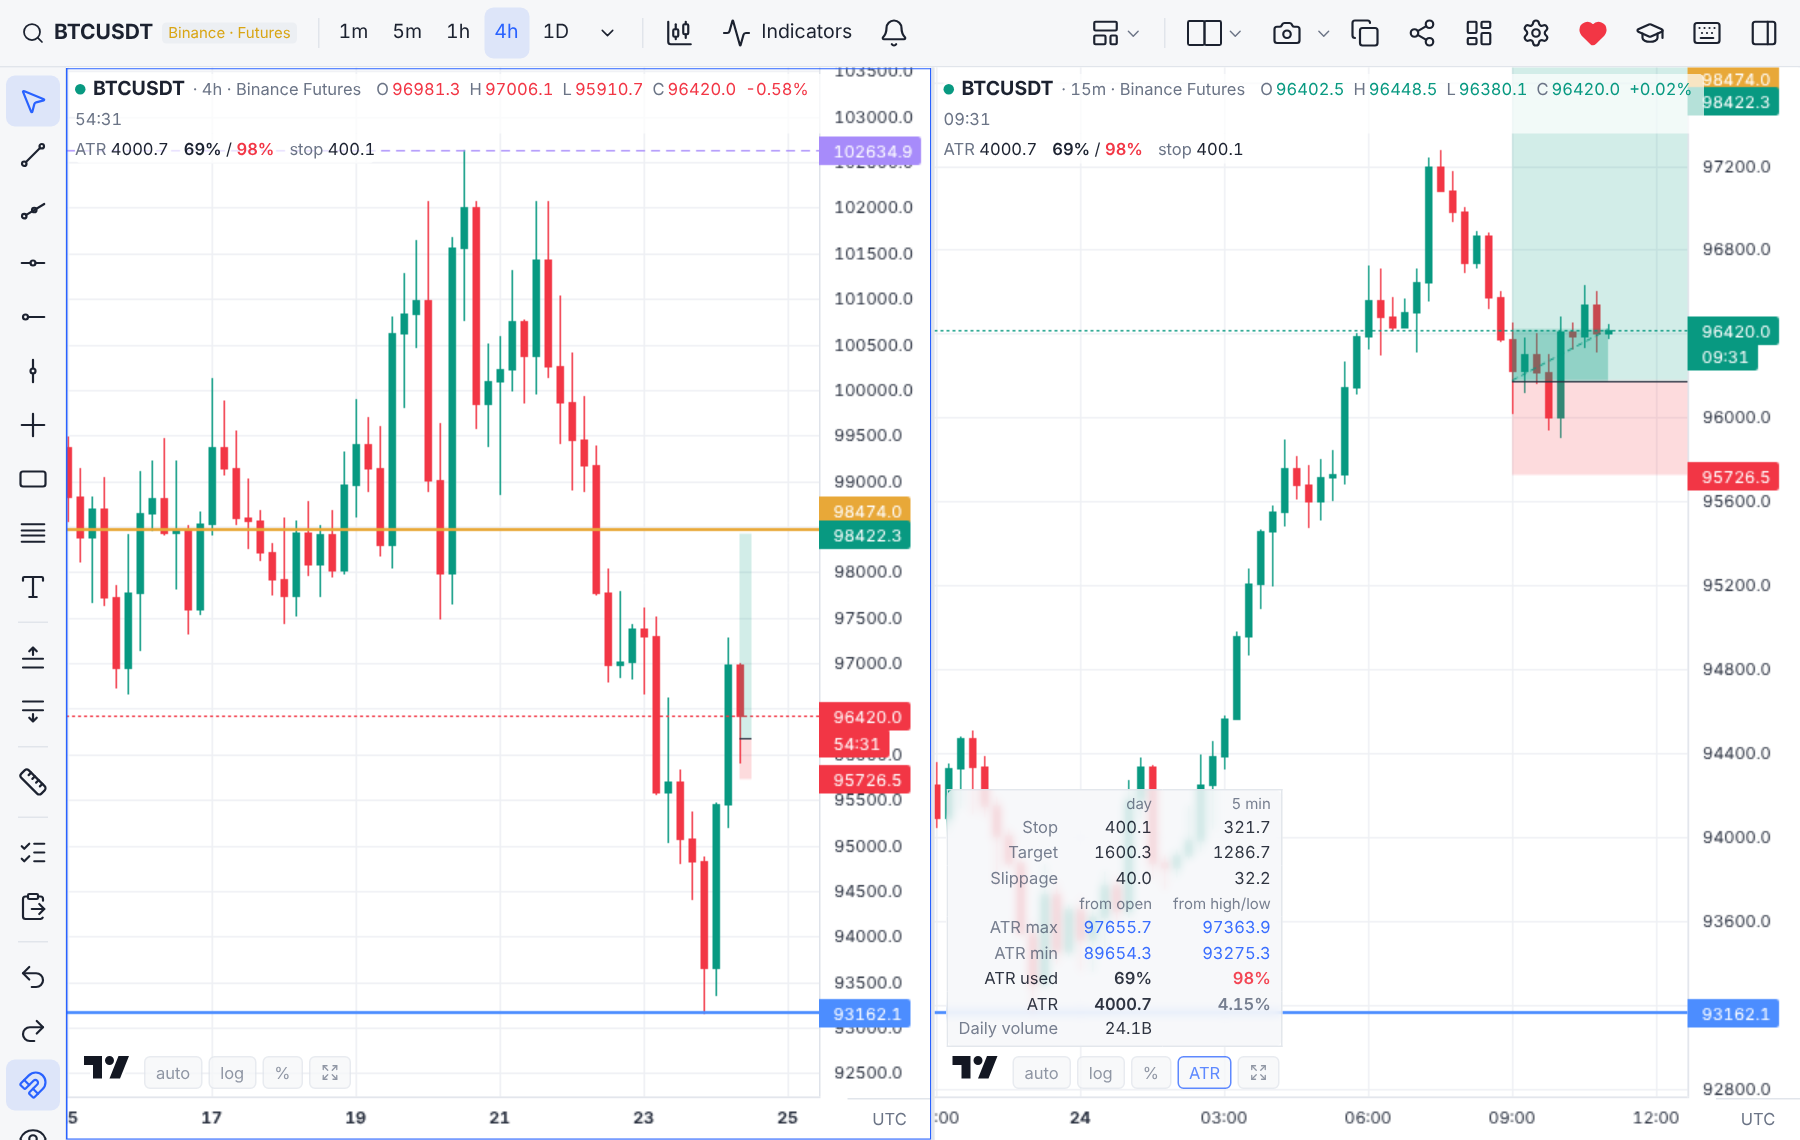
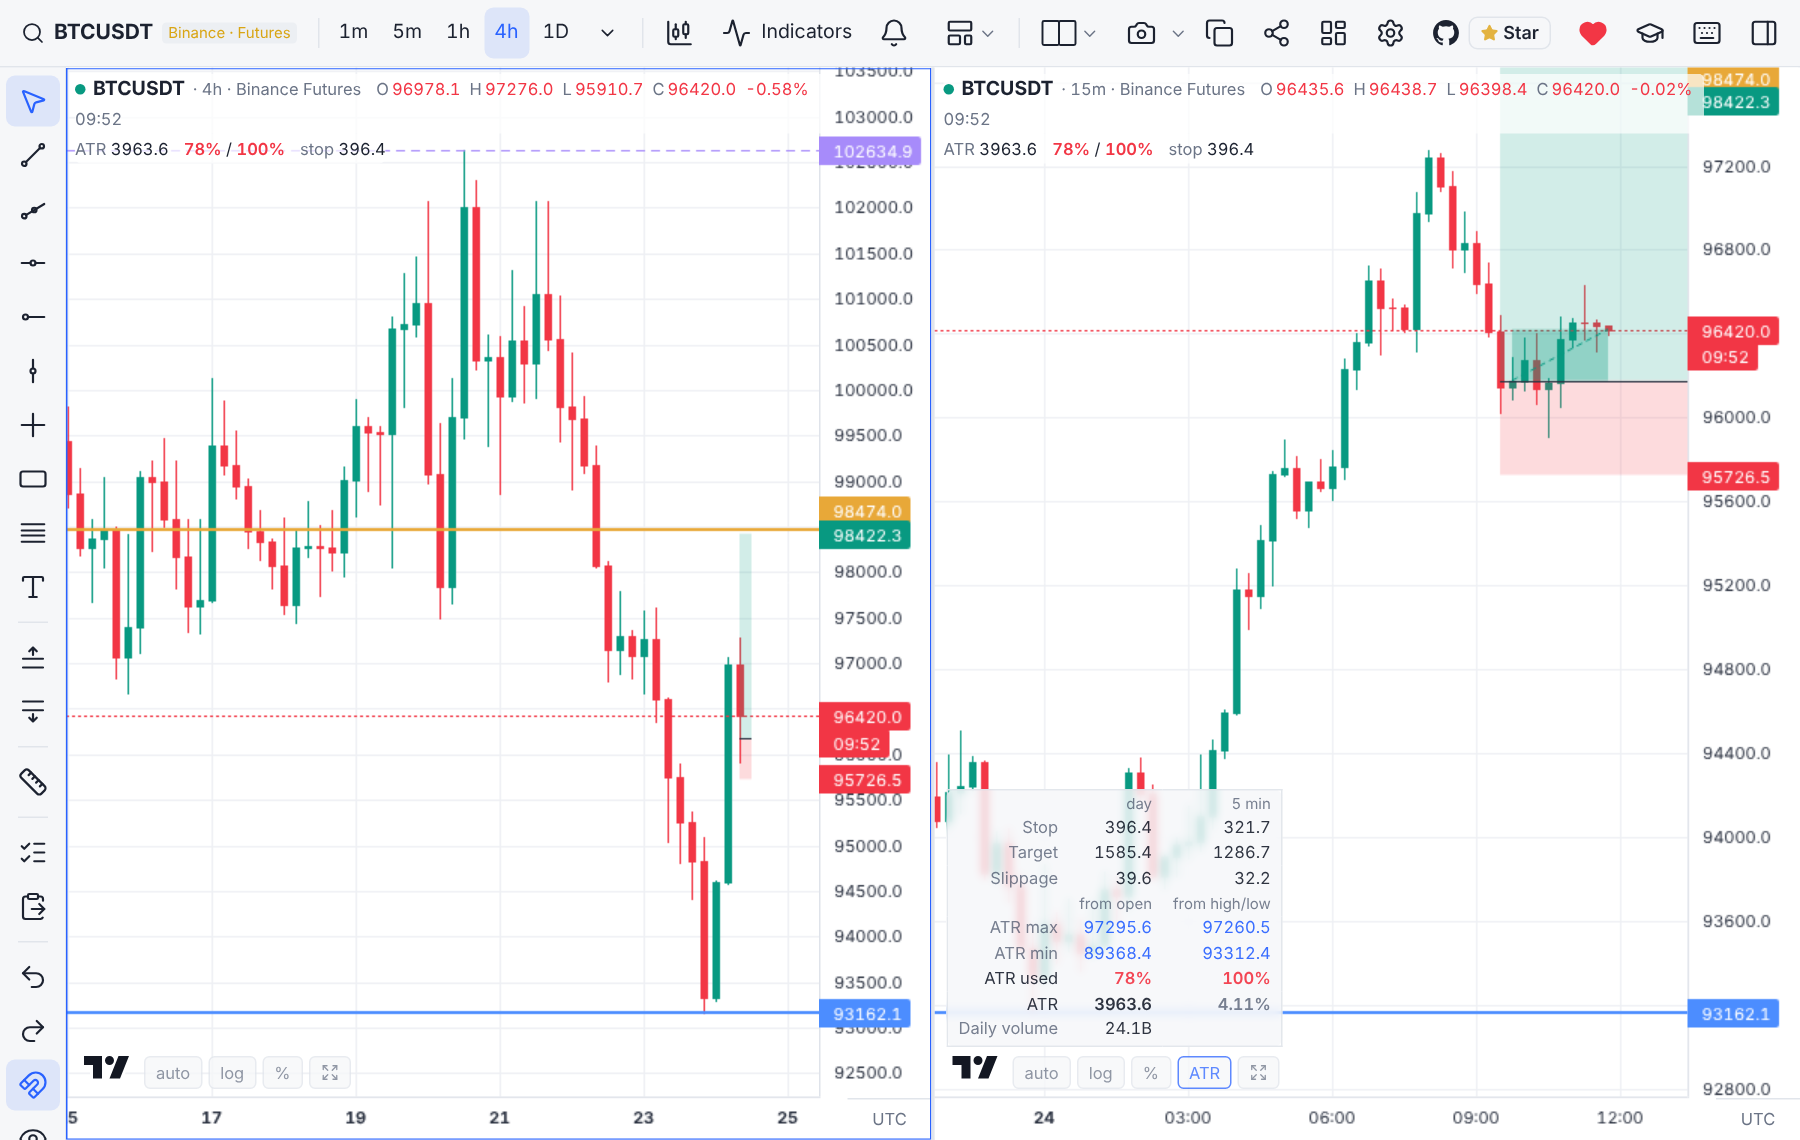
README на русском в том же оформлении, кнопка Sponsor, «лёгкий» в цифрах
- README.ru.md: шапка, бейджи, «Почему tvx», скриншоты русского интерфейса
  (docs/screenshots/ru), раздел «Поддержать проект»; подробное описание — ниже.
- Оба README: вес приложения (~210 КБ при первом открытии, ~270 КБ всё),
  ссылка на окно доната и просьба поставить звёздочку; бейдж звёзд.
- .github/FUNDING.yml — кнопка «Sponsor» на странице репозитория.
- Английские скриншоты пересняты (кнопка GitHub на панели).

Claude-Session: https://claude.ai/code/session_01VRkEvv2LWq6DvpVnMTJzLN

diff --git a/README.ru.md b/README.ru.md
@@ -1,15 +1,90 @@
-# tvx — торговый терминал
+<div align="center">
 
-[English](README.md) · **Русский** · [Открыть приложение](https://gurmanalexander.github.io/trading-platform/)
+<img src="public/icon-192.png" width="88" alt="логотип tvx" />
 
-Лёгкий веб-терминал для графиков криптовалют: цены Binance и Bybit (спот и бессрочные фьючерсы)
-в реальном времени, несколько синхронных окон, индикаторы, рисование, отбор инструментов, оповещения.
-Работает в браузере на компьютере, планшете и телефоне, ставится на домашний экран как приложение (PWA).
+# tvx — бесплатный торговый терминал для Binance и Bybit
 
-Серверной части нет: браузер сам обращается к публичным API бирж. Ключи API не нужны,
-настройки, рисунки и оповещения хранятся в браузере (`localStorage`).
+**Быстрые графики в браузере, как в TradingView: несколько окон, рисование, позиции лонг/шорт,
+ATR, отбор, списки и оповещения — без регистрации, без рекламы и без ключей API.**
 
-## Возможности
+[![Открыть приложение](https://img.shields.io/badge/%D0%9E%D1%82%D0%BA%D1%80%D1%8B%D1%82%D1%8C%20%D0%BF%D1%80%D0%B8%D0%BB%D0%BE%D0%B6%D0%B5%D0%BD%D0%B8%D0%B5-%E2%86%92-2962ff?style=for-the-badge)](https://gurmanalexander.github.io/trading-platform/)
+
+[![Сборка](https://github.com/gurmanalexander/trading-platform/actions/workflows/pages.yml/badge.svg)](https://github.com/gurmanalexander/trading-platform/actions/workflows/pages.yml)
+![Vue 3](https://img.shields.io/badge/Vue-3-42b883?logo=vuedotjs&logoColor=white)
+![TypeScript](https://img.shields.io/badge/TypeScript-strict-3178c6?logo=typescript&logoColor=white)
+![PWA](https://img.shields.io/badge/PWA-installable-5a0fc8?logo=pwa&logoColor=white)
+![Без сервера](https://img.shields.io/badge/%D1%81%D0%B5%D1%80%D0%B2%D0%B5%D1%80-%D0%BD%D0%B5%20%D0%BD%D1%83%D0%B6%D0%B5%D0%BD-555)
+![Загрузка ~210 КБ](https://img.shields.io/badge/%D0%B7%D0%B0%D0%B3%D1%80%D1%83%D0%B7%D0%BA%D0%B0-~210%20%D0%9A%D0%91%20gzip-1fb28a)
+[![Звёзды](https://img.shields.io/github/stars/gurmanalexander/trading-platform?style=flat&logo=github)](https://github.com/gurmanalexander/trading-platform/stargazers)
+
+[English](README.md) · **Русский**
+
+<img src="docs/screenshots/ru/hero.png" alt="tvx: три синхронных окна BTCUSDT с уровнями, позицией лонг и списком наблюдения" width="100%" />
+
+</div>
+
+## Почему tvx
+
+- **Бесплатно и приватно.** Всё работает в браузере и обращается прямо к открытым API бирж.
+  Ни аккаунта, ни сервера, ни слежки: раскладки, рисунки и списки остаются на вашем устройстве.
+- **Лёгкий.** При первом открытии загружается около **210 КБ** — весь JavaScript и CSS в сжатом виде;
+  всё приложение со всеми окнами — около 270 КБ. Веб-терминалы больших платформ обычно скачивают несколько
+  мегабайт скриптов, прежде чем покажут первый график. Без UI-библиотек, трекеров и серверной части —
+  открывается мгновенно и не тормозит даже на старом телефоне.
+- **Для внутридневной торговли.** Уровень с дневного графика виден на пятиминутном, позиция показывает
+  ход сделки в R, таблица ATR — стоп, тейк и сколько дневного хода уже пройдено.
+- **Быстрый.** Графики на canvas ([Lightweight Charts](https://github.com/tradingview/lightweight-charts)),
+  одно WebSocket-соединение на биржу, до 8 синхронных окон на экране.
+- **Везде.** Компьютер, планшет и телефон; ставится на домашний экран как приложение (PWA).
+- **Два языка.** Русский и английский, переключаются в любой момент. При первом запуске — короткая настройка:
+  язык, тема, часовой пояс (по умолчанию — как на устройстве) и биржа.
+
+## Как это выглядит
+
+<table>
+<tr>
+<td width="50%"><img src="docs/screenshots/ru/position.png" alt="Позиция лонг с полем R/R и привязкой" /></td>
+<td width="50%"><img src="docs/screenshots/ru/screener.png" alt="Отбор и списки наблюдения" /></td>
+</tr>
+<tr>
+<td><b>Позиции лонг и шорт.</b> Вход, стоп и тейк тянутся мышью или вводятся числами и притягиваются магнитом к ценам свечей (с Shift — без магнита). Привязка R/R (по умолчанию 5 к 1): тянешь стоп — тейк следует. Ход сделки в R, объём по депозиту и риску.</td>
+<td><b>Отбор и списки.</b> Все монеты Binance и Bybit с оборотом, изменением за сутки и фильтрами. Цветные списки, отметки лонг/шорт, расстояние до ближайшего уровня в ATR.</td>
+</tr>
+<tr>
+<td><img src="docs/screenshots/ru/indicators.png" alt="Cumulative Delta Volume и открытый интерес" /></td>
+<td><img src="docs/screenshots/ru/light.png" alt="Светлая тема" /></td>
+</tr>
+<tr>
+<td><b>Индикаторы.</b> Объём, SMA/EMA/WMA, полосы Боллинджера, VWAP, RSI, MACD, стохастик, ATR, Cumulative Delta Volume и открытый интерес.</td>
+<td><b>Тёмная и светлая темы</b>, свои цвета, тонкие бары, часовые пояса, крупный шрифт шкал и легенды.</td>
+</tr>
+<tr>
+<td colspan="2"><img src="docs/screenshots/ru/mobile.png" alt="tvx на телефоне: график и список" /></td>
+</tr>
+<tr>
+<td colspan="2" align="center"><b>И на телефоне.</b> Ставится на домашний экран, монеты листаются смахиванием, телефон набок — график на весь экран.</td>
+</tr>
+</table>
+
+## Поддержать проект
+
+tvx бесплатный и без рекламы. Если он помогает вам в торговле — поддержите его развитие:
+[окно доната в приложении](https://gurmanalexander.github.io/trading-platform/#donate) (QR-коды, кнопки «Скопировать»)
+или переведите USDT напрямую:
+
+| Способ | Адрес |
+| --- | --- |
+| Binance Pay (без комиссии) | [izi4ka](https://app.binance.com/uni-qr/LxreT8Gt) |
+| USDT · TRC20 (Tron) | `TDiQ3qYR3nKasjs7v2Yvf4F9gtKCaApWMb` |
+| USDT · BEP20 (BNB Smart Chain) | `0xdb91a73ce273e760cfed4b7ae39d73d7502419b6` |
+| USDT · ERC20 (Ethereum) | `0xdb91a73ce273e760cfed4b7ae39d73d7502419b6` |
+
+Отправляйте только USDT и только в указанной сети — перевод в другой сети не дойдёт.
+
+**Не готовы донатить? [Поставьте звёздочку репозиторию](https://github.com/gurmanalexander/trading-platform) ⭐** —
+так tvx легче найти другим трейдерам. Сообщения об ошибках и идеи тоже очень помогают.
+
+## Все возможности подробно
 
 - **Язык и первый запуск**: интерфейс на русском и английском, переключается в настройках (шестерёнка
   на верхней панели, на телефоне — «Ещё»). При первом запуске короткая настройка: язык, тема, часовой пояс
@@ -154,6 +229,8 @@
   или полной заменой данных на принимающем устройстве.
 - **Обучение**: кнопка на верхней панели открывает видео-обзор терминала с оглавлением по частям и субтитрами
   (файлы лежат в `public/help`).
+- **GitHub**: кнопка со счётчиком звёзд на верхней панели (на телефоне — «Ещё» → «Звезда на GitHub») ведёт
+  в репозиторий — там можно поставить звёздочку.
 - **Поддержать проект**: сердечко на верхней панели (на телефоне — «Ещё» → «Поддержать проект») открывает
   окно доната: сначала выбирают способ (Binance Pay, USDT TRC20, BEP20 или ERC20), потом видят только его —
   адрес, кнопку «Скопировать» и предупреждение про сеть; QR-код — у выбранного способа (на телефоне — по кнопке).
@@ -299,6 +376,8 @@ server {
 
 ## Почему это быстро
 
+- При первом открытии загружается около 210 КБ (весь JavaScript и CSS, сжатый gzip), всё приложение — около 270 КБ:
+  редкие окна (настройки, синхронизация, обзор и т. п.) подгружаются, только когда их открывают; видео-обзор — тоже.
 - Графики — [Lightweight Charts](https://github.com/tradingview/lightweight-charts) (canvas), интерфейс — Vue 3
   без UI-библиотек.
 - Одно WebSocket-соединение на биржу и рынок; подписки считаются по ссылкам, неиспользуемые закрываются.

diff --git a/README.md b/README.md
@@ -14,6 +14,8 @@ ATR toolkit, screener, watchlists and alerts — no sign-up, no ads, no API keys
 ![TypeScript](https://img.shields.io/badge/TypeScript-strict-3178c6?logo=typescript&logoColor=white)
 ![PWA](https://img.shields.io/badge/PWA-installable-5a0fc8?logo=pwa&logoColor=white)
 ![No backend](https://img.shields.io/badge/backend-none-555)
+![First load ~210 KB](https://img.shields.io/badge/first%20load-~210%20KB%20gzip-1fb28a)
+[![Stars](https://img.shields.io/github/stars/gurmanalexander/trading-platform?style=flat&logo=github)](https://github.com/gurmanalexander/trading-platform/stargazers)
 
 **English** · [Русский](README.ru.md)
 
@@ -27,6 +29,9 @@ ATR toolkit, screener, watchlists and alerts — no sign-up, no ads, no API keys
   No account, no server, no tracking. Your layouts, drawings and lists stay on your device.
 - **Built for intraday traders.** Levels drawn on the daily chart show up on the 5-minute one,
   positions show live progress in R, the ATR table tells you stop, target and how much of the day's range is gone.
+- **Lightweight.** About **210 KB** on first load — all JavaScript and CSS, gzipped; the whole app with every
+  dialog is ~270 KB. Big web platforms usually download several megabytes of scripts before the first chart appears.
+  No UI kits, no trackers, no backend — it opens instantly and runs smoothly even on an old phone.
 - **Fast.** Canvas charts ([Lightweight Charts](https://github.com/tradingview/lightweight-charts)),
   one WebSocket per exchange, up to 8 synchronized charts on screen.
 - **Works everywhere.** Desktop, tablet and phone; install it to your home screen as an app (PWA).
@@ -41,7 +46,7 @@ ATR toolkit, screener, watchlists and alerts — no sign-up, no ads, no API keys
 <td width="50%"><img src="docs/screenshots/screener.png" alt="Screener and watchlists" /></td>
 </tr>
 <tr>
-<td><b>Long / short positions.</b> Drag entry, stop and target or type them in. Lock the R/R (5:1 by default) and the target follows your stop. Live result in R, position size from your deposit and risk.</td>
+<td><b>Long / short positions.</b> Drag entry, stop and target or type them in — they snap to candle prices with the magnet (hold Shift to place freely). Lock the R/R (5:1 by default) and the target follows your stop. Live result in R, position size from your deposit and risk.</td>
 <td><b>Screener & watchlists.</b> All Binance and Bybit symbols with turnover, 24h change and filters. Color-coded lists, long/short marks, distance to the nearest level in ATR.</td>
 </tr>
 <tr>
@@ -115,8 +120,9 @@ automatically on every push to `main` (`.github/workflows/pages.yml`).
 
 ## Support the project
 
-tvx is free and has no ads. If it helps your trading, you can support its development —
-click the ♥ button in the app, or send USDT directly:
+tvx is free and has no ads. If it helps your trading, you can support its development:
+[open the donate window in the app](https://gurmanalexander.github.io/trading-platform/#donate) (QR codes, copy buttons)
+or send USDT directly:
 
 | Method | Address |
 | --- | --- |
@@ -126,7 +132,8 @@ click the ♥ button in the app, or send USDT directly:
 | USDT · ERC20 (Ethereum) | `0xdb91a73ce273e760cfed4b7ae39d73d7502419b6` |
 
 Send only USDT and only on the network shown — transfers on another network are lost.
-Stars ⭐, bug reports and feature ideas are very welcome too.
+**Not ready to donate? [Star the repository](https://github.com/gurmanalexander/trading-platform) ⭐** — it helps others find tvx.
+Bug reports and feature ideas are very welcome too.
 
 ## Limitations
 
